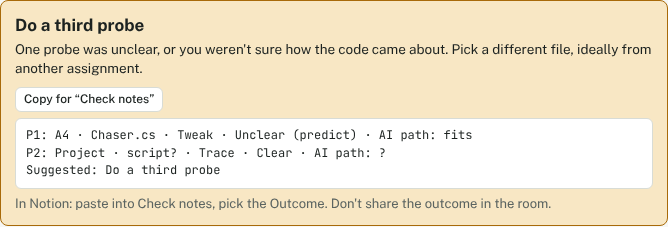
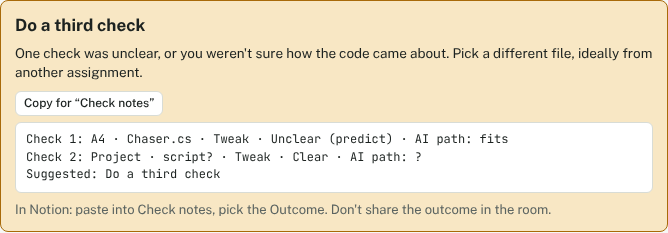
Simpler English in everything TAs say aloud
Claude-Session: https://claude.ai/code/session_012pZ8E2KigwqxqxQJHujcYw

diff --git a/decks.js b/decks.js
@@ -15,11 +15,11 @@ window.DECKS = {
     files: "Mover.cs · Player.prefab",
     cards: [
       { id: "a1-1", move: "remove", source: "own",
-        locate: "Show me where diagonal movement is kept at the same speed.",
+        locate: "Show me where you keep diagonal movement at the same speed.",
         change: "Remove the normalization of the movement vector (`.normalized` or `Normalize()`).",
         expect: "Single-axis movement is unchanged. W+D is now about 1.4× faster (√2)." },
       { id: "a1-2", move: "remove", source: "own",
-        locate: "Where does the movement stop depending on frame rate?",
+        locate: "Which part makes the speed the same on slow and fast computers?",
         change: "Remove `* Time.deltaTime`.",
         expect: "The player shoots off: speed is now units per frame, far faster, and it varies with frame rate." },
       { id: "a1-3", move: "tweak", source: "own",
@@ -31,19 +31,19 @@ window.DECKS = {
         change: "Make the speed field `private`, without `[SerializeField]`.",
         expect: "The field disappears from the Inspector. The script uses the default in code, so a tuned Inspector value is ignored." },
       { id: "a1-5", move: "move", source: "own",
-        locate: "Where is input read every frame?",
+        locate: "Where do you read the keyboard input?",
         change: "Move the movement code from `Update()` into `Start()`.",
         expect: "It runs once at the start: the player doesn't move." },
       { id: "a1-6", move: "extend", source: "own",
-        locate: "Show me where the forward/back value is set.",
+        locate: "Show me where you set forward and backward movement.",
         change: "Make walking backwards (S) half as fast as forwards.",
         expect: "A factor on negative z only. Watch the order: normalize first, then scale, or diagonals change too." },
       { id: "a1-8", move: "why-not", source: "own",
         locate: "What does your code do when no key is pressed?",
-        change: "Ask: what does normalizing a zero vector give?",
+        change: "Ask: what happens if you normalize a zero vector?",
         expect: "Unity returns (0, 0, 0), so there is no error. An author can reason it through." },
       { id: "a1-9", move: "extend", source: "own",
-        locate: "Where are keys mapped to directions?",
+        locate: "Where do the keys turn into directions?",
         change: "Add Q and E to move down and up.",
         expect: "Adds a y component. Normalization now also covers vertical diagonals." }
     ]
@@ -62,7 +62,7 @@ window.DECKS = {
         change: "Comment out the cleanup (`RemoveAll` or the reverse loop).",
         expect: "Once Count reaches the cap, spawning stops for good: destroyed entries still count. The snippet is in the brief, so check the reasoning." },
       { id: "a2-3", move: "tweak", source: "own",
-        locate: "Show me the on/off toggle.",
+        locate: "Show me where you switch the spawner on and off.",
         change: "Let the timer keep counting while the spawner is off.",
         expect: "Switching it back on spawns immediately (one coin, or several if the timer subtracts the interval in a loop)." },
       { id: "a2-5", move: "remove", source: "own",
@@ -70,11 +70,11 @@ window.DECKS = {
         change: "Remove the player check (tag or component).",
         expect: "Anything with a collider counts, such as the floor or another coin, so the score can rise by itself." },
       { id: "a2-6", move: "move", source: "own",
-        locate: "Show me where the coin is destroyed after collection.",
+        locate: "Show me where the coin is destroyed after it is collected.",
         change: "Move `Destroy(gameObject)` above the score update.",
         expect: "Still works: `Destroy` takes effect at the end of the frame, so the rest of the method runs." },
       { id: "a2-7", move: "tweak", source: "own",
-        locate: "Where is the capacity limit enforced?",
+        locate: "Where do you limit how many coins there can be?",
         change: "Set the maximum to `1`.",
         expect: "One coin at a time. The next appears at the next timer tick after collecting." },
       { id: "a2-8", move: "trace", source: "own",
@@ -86,7 +86,7 @@ window.DECKS = {
         change: "Make every 5th spawned coin worth double.",
         expect: "A counter in Spawner and a value handed to that Collectible: a change across both scripts." },
       { id: "a2-10", move: "why-not", source: "own",
-        locate: "Why did you use an accumulating timer?",
+        locate: "Why did you use a timer variable for spawning?",
         change: "Ask: why not `InvokeRepeating` or a coroutine?",
         expect: "Both work. Listen for what pausing would mean in each." }
     ]
@@ -101,27 +101,27 @@ window.DECKS = {
         change: "Remove the `Mathf.Clamp` on pitch.",
         expect: "The camera can rotate past straight up and flip over." },
       { id: "a3-2", move: "remove", source: "own",
-        locate: "Where is a mid-air jump prevented?",
+        locate: "Where do you stop the player from jumping in the air?",
         change: "Remove the `isGrounded` check on Jump.",
         expect: "Jumping works in mid-air: you can climb into the sky." },
       { id: "a3-3", move: "tweak", source: "given",
-        locate: "Where is the jump velocity calculated?",
+        locate: "Where do you calculate the jump speed?",
         change: "Multiply `jumpHeight` by 4.",
         expect: "Four times higher, but take-off speed only doubles (square root). The formula is in the brief. Check the reasoning." },
       { id: "a3-4", move: "tweak", source: "given",
-        locate: "What keeps the player grounded?",
+        locate: "Which part keeps the player on the ground?",
         change: "Set the small downward snap (`-2f`) to `0`.",
         expect: "`isGrounded` starts flickering: jumps sometimes don't fire, slopes can feel floaty." },
       { id: "a3-5", move: "move", source: "own",
-        locate: "Where does horizontal mouse movement turn the player?",
+        locate: "Where does moving the mouse left and right turn the player?",
         change: "Apply the yaw to the camera instead of the body.",
         expect: "The view turns, but W still moves along the old forward because the body didn't rotate." },
       { id: "a3-6", move: "remove", source: "own",
-        locate: "Show me where the power-up wears off.",
+        locate: "Show me where the power-up ends.",
         change: "Comment out the revert.",
         expect: "The boost becomes permanent. Follow-up: collect it twice quickly. What then? Stacks or resets, depending on the code." },
       { id: "a3-7", move: "tweak", source: "own",
-        locate: "Where is the aimed pickup detected?",
+        locate: "Where do you check that the player is looking at the power-up?",
         change: "Set the raycast range to `0.5`.",
         expect: "You must stand almost against it. A power-up out of reach can no longer be activated." },
       { id: "a3-10", move: "trace", source: "own",
@@ -140,15 +140,15 @@ window.DECKS = {
     files: "ClickToMove.cs · Chaser.cs · PlayerStats.cs · UIManager.cs",
     cards: [
       { id: "a4-1", move: "remove", source: "own",
-        locate: "Where is the rate of hits controlled?",
+        locate: "Where do you control how often the chaser can hit?",
         change: "Remove the cooldown.",
         expect: "Health empties in well under a second while the chaser touches you." },
       { id: "a4-2", move: "move", source: "own",
-        locate: "Where does the chaser get its destination?",
+        locate: "Where does the chaser decide where to go?",
         change: "Call `SetDestination` only once, in `Start()`.",
         expect: "It walks to where the player started, then stops." },
       { id: "a4-3", move: "tweak", source: "own",
-        locate: "How do you decide which clicks are accepted?",
+        locate: "Where do you decide which clicks count?",
         change: "Set the click raycast's layer mask to Everything.",
         expect: "Clicks on walls and props now count as moves. The refusal response may stop triggering." },
       { id: "a4-4", move: "remove", source: "given",
@@ -156,8 +156,8 @@ window.DECKS = {
         change: "Remove the subscription in `UIManager` (or the event call in `PlayerStats`).",
         expect: "The HUD freezes while the values still change in the Inspector. The event structure ships with the template." },
       { id: "a4-5", move: "why-not", source: "own",
-        locate: "Show me how an unreachable click is detected.",
-        change: "Ask: which check did you use, and is the answer there in the same frame?",
+        locate: "Show me how you find out that a click can't be reached.",
+        change: "Ask: which check did you use? Do you get the answer in the same frame?",
         expect: "`SetDestination` bool, `pathStatus` (not immediate), `CalculatePath` (immediate) or `SamplePosition`. Ask which one they used, and why." },
       { id: "a4-8", move: "extend", source: "own",
         locate: "Where does the power-up change the speed?",
@@ -183,11 +183,11 @@ window.DECKS = {
         change: "Ignore `TryGetPose` returning `false` and apply the pose anyway.",
         expect: "Doggy stays visible at his last (or a zero) pose and reacts to an old position." },
       { id: "a5-2", move: "tweak", source: "own",
-        locate: "Where is Doggy's movement smoothed?",
+        locate: "Where do you make Doggy move smoothly?",
         change: "Set the follow or lerp factor to 1 (or very high).",
         expect: "He snaps to each detection, about 30 times a second: visibly jittery." },
       { id: "a5-3", move: "tweak", source: "own",
-        locate: "Where is 'treat in range' decided?",
+        locate: "Where do you decide that the treat is close enough?",
         change: "Halve the range distance.",
         expect: "The jaw only opens when closer. Cards can't get much under 9 cm apart, so too small means it never opens." },
       { id: "a5-4", move: "remove", source: "own",
@@ -195,15 +195,15 @@ window.DECKS = {
         change: "Don't reset the timer when the treat leaves.",
         expect: "Next time the treat comes close, Doggy is happy (almost) immediately." },
       { id: "a5-5", move: "tweak", source: "given",
-        locate: "Where is the tail switched on?",
+        locate: "Where do you start the tail wagging?",
         change: "Misspell the parameter: `\"Tailwag\"`.",
         expect: "A Console warning that the parameter doesn't exist. No wag. The parameter name is given, the call is theirs." },
       { id: "a5-6", move: "tweak", source: "own",
-        locate: "How is the direction for the head worked out?",
+        locate: "How do you work out where the head should look?",
         change: "Use the world-space direction instead of Doggy's local space.",
         expect: "Looks right while the card is straight, wrong once the dog card is turned." },
       { id: "a5-7", move: "remove", source: "own",
-        locate: "Where is the head turn limited?",
+        locate: "Where do you limit how far the head turns?",
         change: "Remove the turn limit.",
         expect: "The head follows the treat into unnatural angles, even backwards." },
       { id: "a5-10", move: "extend", source: "own",
@@ -226,7 +226,7 @@ window.DECKS = {
         change: "Remove the `selectExited` listener.",
         expect: "The count doesn't drop when an object is taken out, and the response doesn't close." },
       { id: "a6-3", move: "move", source: "own",
-        locate: "Where is the completion effect started?",
+        locate: "Where do you start the effect when the goal is done?",
         change: "Move the `Play()` call into the 'complete' branch of `Update()`.",
         expect: "It restarts every frame: the sound stutters and the particles never get going." },
       { id: "a6-4", move: "remove", source: "own",
@@ -234,19 +234,19 @@ window.DECKS = {
         change: "Remove the counting call at the start.",
         expect: "The text shows its placeholder until the first object is placed or removed." },
       { id: "a6-5", move: "tweak", source: "own",
-        locate: "Where does the response move?",
+        locate: "Where do you move the object that opens?",
         change: "Make the opening speed 10× faster.",
         expect: "It opens almost instantly, so the 'about a second or longer' requirement fails." },
       { id: "a6-7", move: "trace", source: "own",
-        locate: "When an object goes into a socket, what runs, in what order?",
+        locate: "When you put an object in a socket, which code runs, in what order?",
         change: "Just trace it, no changes.",
         expect: "`selectEntered` → count method → `hasSelection` per socket → text → state → `Update()` moves the response." },
       { id: "a6-8", move: "why-not", source: "own",
-        locate: "Why count with `hasSelection`?",
+        locate: "Why do you count with `hasSelection`?",
         change: "Ask: why not `count++` and `count--` in the event handlers?",
         expect: "A recount is right at the start and can't drift if an event is missed or fires twice." },
       { id: "a6-9", move: "extend", source: "own",
-        locate: "Where is 'complete' decided?",
+        locate: "Where do you decide that the goal is complete?",
         change: "Show \"Done!\" on the text when the goal is complete.",
         expect: "One extra branch where the text is set." }
     ]
@@ -257,7 +257,7 @@ window.DECKS = {
     files: "IMDEV sub-system or stand-alone XR demo, work in progress",
     cards: [
       { id: "p-1", move: "remove", source: "own",
-        locate: "Where does your sub-system start doing its work?",
+        locate: "Where does your part of the code start its work?",
         change: "Comment out the call that starts it. What stops working?",
         expect: "They can say what breaks in the game, and when you would notice." },
       { id: "p-2", move: "trace", source: "own", only: "team",
@@ -265,15 +265,15 @@ window.DECKS = {
         change: "Trace it: what calls what, and what data is passed?",
         expect: "Concrete method or event names, and who owns each side. If ownership is disputed: `git log --author`." },
       { id: "p-3", move: "tweak", source: "own",
-        locate: "Show me a value someone would tune.",
+        locate: "Show me a value you would change to tune the game.",
         change: "Change it in the code to 0, then to 10×.",
         expect: "They predict both before running." },
       { id: "p-4", move: "tweak", source: "own",
-        locate: "Where does your system decide that a state changes?",
+        locate: "Where does your code switch from one state to another?",
         change: "Flip the condition.",
         expect: "A concrete prediction, then a reconcile after running." },
       { id: "p-5", move: "remove", source: "own",
-        locate: "Where do you handle something missing (null, no target, nothing tracked)?",
+        locate: "Where do you handle something that is missing, like a null value?",
         change: "Remove that guard.",
         expect: "Which error, when, and in which situation." },
       { id: "p-6", move: "extend", source: "own",
@@ -281,11 +281,11 @@ window.DECKS = {
         change: "Add a `Debug.Log` that prints a useful value when it happens.",
         expect: "Typed without help, and in the right place." },
       { id: "p-7", move: "why-not", source: "own",
-        locate: "Why is it structured this way (manager, events, singleton…)?",
+        locate: "Why did you build it this way, for example with a manager or events?",
         change: "Ask for one alternative and what it would cost.",
         expect: "A reason tied to the project, not a textbook line." },
       { id: "p-9", move: "trace", source: "own", only: "solo",
-        locate: "Where does the XR input (grab, teleport, tracking) reach your own code?",
+        locate: "Where does XR input, like grabbing or teleporting, reach your code?",
         change: "Trace it from the interactor to your handler.",
         expect: "Names the interactor or event and their handler." },
       { id: "p-10", move: "why-not", source: "own",
@@ -300,27 +300,27 @@ window.DECKS = {
     files: "prototype in progress · conditions · logging",
     cards: [
       { id: "m-1", move: "tweak", source: "own",
-        locate: "Where is the experimental condition switched?",
+        locate: "Where do you switch between your conditions?",
         change: "Force the other condition.",
         expect: "Predicts what the participant experiences differently, and what the log shows." },
       { id: "m-2", move: "extend", source: "own",
-        locate: "Where is a log line written?",
+        locate: "Where do you write data to the log?",
         change: "Add one field, such as a trial number or timestamp.",
         expect: "Typed without help. Knows where the file goes and its format." },
       { id: "m-3", move: "tweak", source: "own",
-        locate: "Show me the core interaction mechanic.",
+        locate: "Show me the main interaction.",
         change: "Change its key parameter.",
         expect: "Predicts the effect on the experience." },
       { id: "m-4", move: "trace", source: "own",
-        locate: "From the participant's action to the logged value: what runs?",
+        locate: "When a participant does something, which code runs until it is logged?",
         change: "Just trace it, no changes.",
         expect: "Their own methods, in the right order." },
       { id: "m-5", move: "remove", source: "own",
-        locate: "Where are trials or blocks sequenced?",
+        locate: "Where do you set the order of the trials?",
         change: "Skip one step.",
         expect: "Predicts the consequence for the session and the data." },
       { id: "m-6", move: "why-not", source: "own",
-        locate: "Why this measure, or this way of logging?",
+        locate: "Why did you choose this way of logging?",
         change: "Ask for one alternative.",
         expect: "A reason tied to the research question." },
       { id: "m-8", move: "why-not", source: "own",
@@ -335,7 +335,7 @@ window.DECKS = {
     files: "tutorial and example project",
     cards: [
       { id: "t-1", move: "tweak", source: "own",
-        locate: "Show me the example script your tutorial is built around.",
+        locate: "Show me the main example script of your tutorial.",
         change: "Change the parameter your tutorial tells learners to experiment with.",
         expect: "Predicts the effect, as a learner would have to." },
       { id: "t-2", move: "tweak", source: "own",
@@ -355,7 +355,7 @@ window.DECKS = {
         change: "Ask for one alternative and why it was not chosen.",
         expect: "A teaching reason, not only a technical one." },
       { id: "t-6", move: "trace", source: "own",
-        locate: "Walk me through the order things happen in your example.",
+        locate: "In your example, what happens first, and what next?",
         change: "Just trace it, no changes.",
         expect: "The order of Unity callbacks and their own methods." }
     ]

diff --git a/index.html b/index.html
@@ -426,8 +426,8 @@ function notesHTML(){
 function aiHint(){
   const no = `<b>No-AI:</b> you should hear how they wrote it: docs, tutorials, what went wrong. Code that looks generated with no story behind it gets a third check.`;
   const yes = `<b>AI-Assisted:</b> you should hear which parts came from AI and what they changed or fixed. Predicting and changing still count the same.`;
-  if(!S.aiPath) return `<div class="ai"><p>Ask in every check: <i>“How did this code come about?”</i></p><p>Tick their AI path from the Notion row to see what to listen for.</p></div>`;
-  return `<div class="ai"><p>Ask in every check: <i>“How did this code come about?”</i></p><p>${S.aiPath==="noai" ? no : yes}</p><p>If it doesn't fit their declared path, note what they said and mark Doubt.</p></div>`;
+  if(!S.aiPath) return `<div class="ai"><p>Ask in every check: <i>“How did you write this code?”</i></p><p>Tick their AI path from the Notion row to see what to listen for.</p></div>`;
+  return `<div class="ai"><p>Ask in every check: <i>“How did you write this code?”</i></p><p>${S.aiPath==="noai" ? no : yes}</p><p>If it doesn't fit their declared path, note what they said and mark Doubt.</p></div>`;
 }
 function renderFlow(){
   const mode = MODES[S.mode], v = verdict(), p3 = v.k==="third" || S.probes[2].deck || S.probes[2].result;
@@ -462,8 +462,8 @@ function statusHTML(team){
   const cur = topics.find(t => t.id === S.advice);
   return `<section class="step" data-phase="checkin"><div class="step-h"><h2>Project check-in</h2><span class="t">5 min</span><span class="nowtag" hidden>now</span></div>
     <p class="note">They bring two points. Listen, ask what they've tried, then help them find one concrete next step.</p>
-    <p class="quote">1. What's your current challenge in your own ${team?"sub-system":"project"}?</p>
-    <p class="quote">2. ${team ? "Where does your code meet a teammate's code, and what's unclear or not agreed yet?" : "What's still open in the XR part of your demo?"}</p>
+    <p class="quote">1. What is the main challenge in your own ${team?"part of the project":"project"} right now?</p>
+    <p class="quote">2. ${team ? "Where does your code connect to a teammate's code? What is still unclear or not agreed?" : "What is still open in the XR part of your demo?"}</p>
     <div class="row"><span class="lab">Help with</span>${topics.map(t =>
       `<button class="chip" data-act="advice" data-v="${t.id}" aria-pressed="${S.advice===t.id}">${esc(t.label)}</button>`).join("")}</div>
     ${cur ? `<ul class="tips">${cur.tips.map(x=>`<li>${rich(x)}</li>`).join("")}</ul><div class="copy"><button class="btn small" data-act="copyadvice">Copy for “Advice given”</button></div>` : ""}
@@ -490,8 +490,8 @@ function renderGuide(){
   <h2>The check cycle, twice</h2>
   <table><thead><tr><th>Step</th><th>You say</th><th>Watch for</th></tr></thead><tbody>
   <tr><td>Locate</td><td>Name a behaviour, not a file: “Show me where…”</td><td>Goes straight there, or searches file names</td></tr>
-  <tr><td>Explain</td><td>“Walk me through this in your own words.” One minute.</td><td>Talks about the effect in the game, or reads code aloud</td></tr>
-  <tr><td>Predict</td><td>Propose the change. “Before we try it: what will happen?”</td><td>A concrete answer with a reason, or “it might break”</td></tr>
+  <tr><td>Explain</td><td>“Explain this in your own words.” One minute.</td><td>Talks about the effect in the game, or reads code aloud</td></tr>
+  <tr><td>Predict</td><td>Propose the change. “What do you think will happen?”</td><td>A concrete answer with a reason, or “it might break”</td></tr>
   <tr><td>Change</td><td>They type it, you don't dictate. Then they say what Play would show. No need to run it.</td><td>Types it without syntax being dictated</td></tr>
   <tr><td>Reconcile</td><td>If it differs: “Why did that happen?”</td><td>Authors usually work it out within a minute</td></tr>
   </tbody></table>
